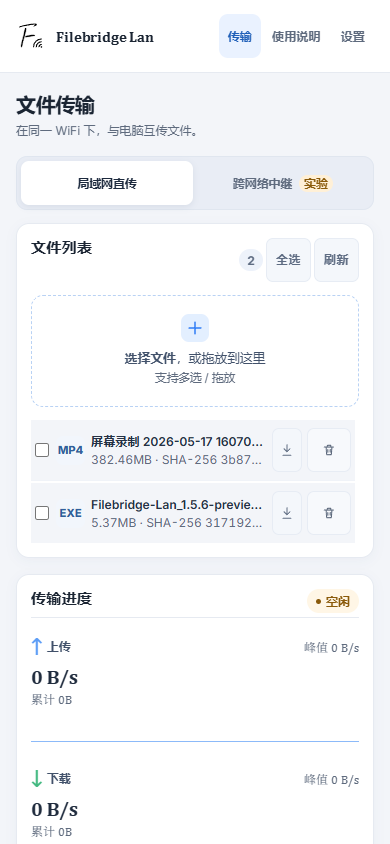
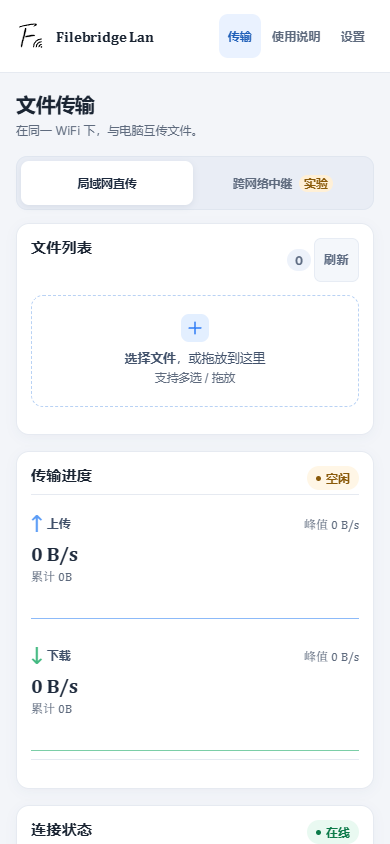
style: rebalance dashboard layout

diff --git a/src/http/HttpTransfer.tsx b/src/http/HttpTransfer.tsx
@@ -1739,7 +1739,7 @@ export function HttpTransfer({ lanService = null, networkBlocked = false }: Http
         </div>
       )}
       <div className="dashboard-grid">
-        <div className="workspace-left">
+
         <article className="card files-card">
           <div className="card-head">
             <div>
@@ -1966,56 +1966,6 @@ export function HttpTransfer({ lanService = null, networkBlocked = false }: Http
           </div>
         </article>
 
-        <article className="card connection-card">
-          <div className="card-head">
-            <div>
-              <h2>{desktop ? '扫码连接' : '连接状态'}</h2>
-              {desktop && <p>同一 WiFi 下，手机扫码即可打开。</p>}
-            </div>
-            <span className={`status-pill ${statusClass === 'chip-ok' ? 'ok' : statusClass === 'chip-bad' ? 'danger' : 'warn'}`}>
-              {statusLabel}
-            </span>
-          </div>
-
-          {serviceNotice}
-
-          {!desktop && token && (
-            <p className="connected-phone-line">已连接 {window.location.host}</p>
-          )}
-
-          {desktop && online === true && (
-            phoneUrl ? (
-              <JoinQr
-                url={phoneUrl}
-                displayUrl={showCode ? phoneUrl : phoneUrl.replace(/([?&#]code=)\d{6}/, '$1••••••')}
-                title="手机扫码打开"
-                subtitle="配对码已自动带入，无需手动输入"
-                actions={(
-                  <button
-                    type="button"
-                    className="btn btn-small btn-ghost"
-                    aria-pressed={showCode}
-                    onClick={() => setShowCode((value) => !value)}
-                  >
-                    {showCode ? '隐藏 code' : '显示 code'}
-                  </button>
-                )}
-              />
-            ) : (
-              <p className="hint">
-                {sessionCode
-                  ? '未检测到局域网 IP，请确认电脑已连接 WiFi/网线后刷新。'
-                  : '已通过主机确认连接。'}
-              </p>
-            )
-          )}
-
-          {desktop && pairingDetails}
-        </article>
-
-        </div>
-
-        <div className="workspace-right">
         <article className={`card progress-card${hasActiveTransfer ? '' : ' is-idle'}`}>
           <div className="card-head">
             <div>
@@ -2159,20 +2109,64 @@ export function HttpTransfer({ lanService = null, networkBlocked = false }: Http
           )}
         </article>
 
-        <ClipboardPanel
-          token={token}
-          desktop={desktop}
-          online={online}
-          publicPaused={publicPaused}
-        />
-        </div>
+        <article className="card connection-card">
+          <div className="card-head">
+            <div>
+              <h2>{desktop ? '扫码连接' : '连接状态'}</h2>
+              {desktop && <p>同一 WiFi 下，手机扫码即可打开。</p>}
+            </div>
+            <span className={`status-pill ${statusClass === 'chip-ok' ? 'ok' : statusClass === 'chip-bad' ? 'danger' : 'warn'}`}>
+              {statusLabel}
+            </span>
+          </div>
 
+          {serviceNotice}
 
+          {!desktop && token && (
+            <p className="connected-phone-line">已连接 {window.location.host}</p>
+          )}
+
+          {desktop && online === true && (
+            phoneUrl ? (
+              <JoinQr
+                url={phoneUrl}
+                displayUrl={showCode ? phoneUrl : phoneUrl.replace(/([?&#]code=)\d{6}/, '$1••••••')}
+                title="手机扫码打开"
+                subtitle="配对码已自动带入，无需手动输入"
+                actions={(
+                  <button
+                    type="button"
+                    className="btn btn-small btn-ghost"
+                    aria-pressed={showCode}
+                    onClick={() => setShowCode((value) => !value)}
+                  >
+                    {showCode ? '隐藏 code' : '显示 code'}
+                  </button>
+                )}
+              />
+            ) : (
+              <p className="hint">
+                {sessionCode
+                  ? '未检测到局域网 IP，请确认电脑已连接 WiFi/网线后刷新。'
+                  : '已通过主机确认连接。'}
+              </p>
+            )
+          )}
+
+          {desktop && pairingDetails}
+        </article>
 
         <NearbyComputers
           onConnect={setPeerFrame}
           activePeerId={peerFrame?.id}
           activeState={peerState}
+        />
+
+        <ClipboardPanel
+          token={token}
+          desktop={desktop}
+          online={online}
+          publicPaused={publicPaused}
         />
 
 

diff --git a/src/dashboard.css b/src/dashboard.css
@@ -389,7 +389,8 @@ input {
     "files"
     "progress"
     "connection"
-    "nearby";
+    "nearby"
+    "clipboard";
   gap: 16px;
   align-items: stretch;
 }
@@ -411,7 +412,8 @@ input {
   grid-template-areas:
     "files"
     "progress"
-    "connection";
+    "connection"
+    "clipboard";
 }
 
 .card {
@@ -1286,13 +1288,14 @@ input {
   }
 }
 
-@media (max-width: 860px) {
+@media (max-width: 1000px) {
   .app.app-shell {
     display: block;
   }
 
   .sidebar {
     position: static;
+    width: 100%;
     height: auto;
     padding: 14px 16px;
     border-right: 0;
@@ -1332,7 +1335,16 @@ input {
       "files"
       "progress"
       "connection"
-      "nearby";
+      "nearby"
+      "clipboard";
+  }
+
+  .lan-dashboard:not(.has-nearby) .dashboard-grid {
+    grid-template-areas:
+      "files"
+      "progress"
+      "connection"
+      "clipboard";
   }
 
   .guide-grid {
@@ -3119,8 +3131,8 @@ input {
       "files"
       "progress"
       "connection"
-      "clipboard"
-      "nearby";
+      "nearby"
+      "clipboard";
   }
 
   .lan-dashboard:not(.has-nearby) .dashboard-grid {
@@ -3131,72 +3143,73 @@ input {
       "clipboard";
   }
 }
-.workspace-left,
-.workspace-right {
-  display: contents;
-}
-
-/* Annotation follow-up: primary work cards share one fixed row on desktops. */
+/* Layout: files/progress lead, connection/nearby support, clipboard last. */
 @media (min-width: 900px) {
   .dashboard-grid {
-    grid-template-columns: minmax(0, 1.35fr) minmax(260px, 1fr);
+    grid-template-columns: minmax(0, 1.35fr) minmax(280px, 1fr);
     grid-template-areas:
-      "left right"
-      "nearby nearby";
+      "files progress"
+      "connection nearby"
+      "clipboard clipboard";
     align-items: start;
   }
 
   .lan-dashboard:not(.has-nearby) .dashboard-grid {
     grid-template-areas:
-      "left right";
-  }
-
-  .workspace-left,
-  .workspace-right {
-    display: flex;
-    flex-direction: column;
-    gap: 18px;
-    min-width: 0;
-  }
-
-  .workspace-left {
-    grid-area: left;
-    align-self: stretch;
-  }
-
-  .workspace-right {
-    grid-area: right;
-    align-self: stretch;
+      "files progress"
+      "connection connection"
+      "clipboard clipboard";
   }
 
   .files-card {
     grid-area: files;
-    height: 360px;
     display: flex;
     flex-direction: column;
   }
 
   .progress-card {
-    display: flex;
-    flex-direction: column;
+    grid-area: progress;
   }
 
   .connection-card {
     grid-area: connection;
-    flex: 1 1 auto;
+  }
+
+  .nearby-card {
+    grid-area: nearby;
   }
 
   .clipboard-card {
-    flex: 1 1 auto;
-    display: flex;
-    flex-direction: column;
-    height: auto;
-    overflow: visible;
+    grid-area: clipboard;
+    display: grid;
+    grid-template-columns: minmax(0, 1.2fr) minmax(280px, 0.8fr);
+    gap: 16px;
+    align-items: start;
+  }
+
+  .clipboard-card .card-head {
+    grid-column: 1 / -1;
+    margin-bottom: 0;
+  }
+
+  .clipboard-card .clipboard-latest {
+    grid-column: 1;
+  }
+
+  .clipboard-card .clipboard-compose {
+    grid-column: 2;
+    margin-top: 0;
+  }
+
+  .clipboard-card .clipboard-off,
+  .clipboard-card .clipboard-notice,
+  .clipboard-card .clipboard-error {
+    grid-column: 1 / -1;
   }
 
   .files-card .file-list {
-    flex: 1 1 auto;
     min-height: 0;
+    max-height: 300px;
     overflow: auto;
   }
 }
